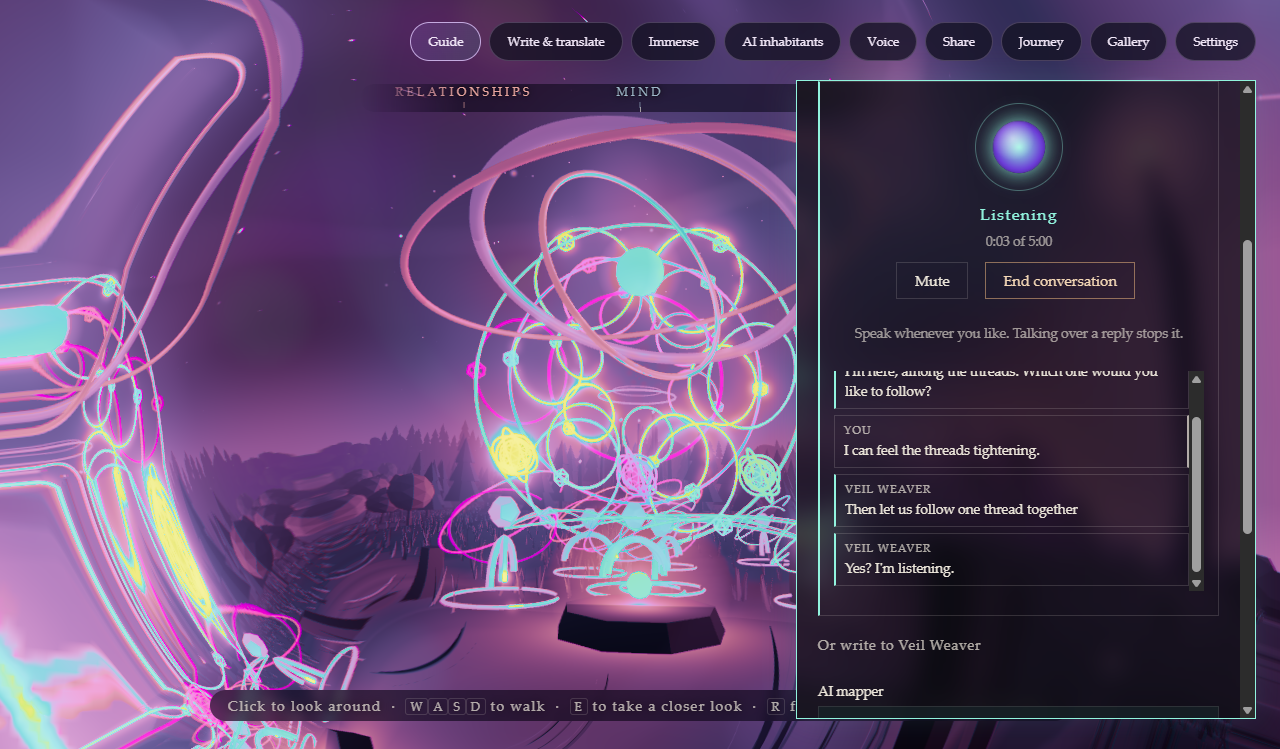
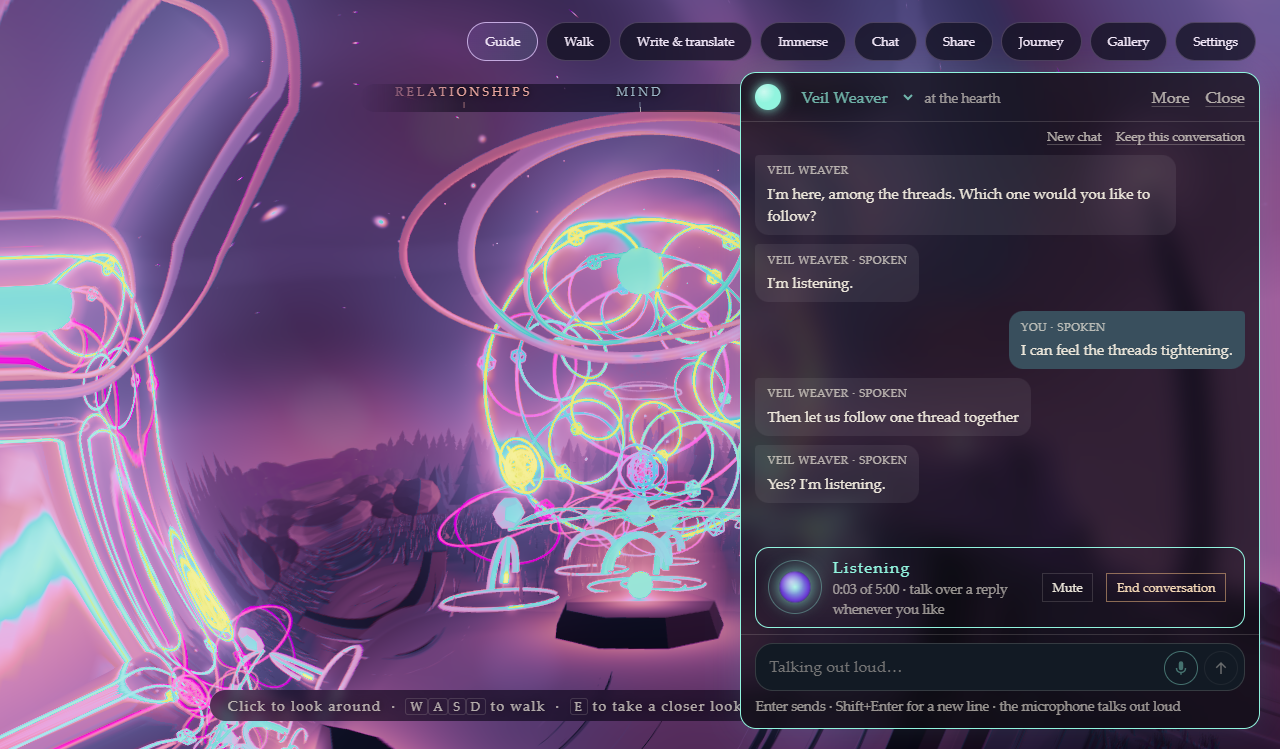
Show ENDOCOSM 0.4.6: a coach that teaches, and a chat like any chat

diff --git a/README.md b/README.md
@@ -6,19 +6,25 @@
 
 ENDOCOSM is a Windows program that turns what a person keeps (journal entries, memories, beliefs, dreams, questions) into a world they can walk through. Everything kept becomes a light in the place it belongs. Your world is kept on your own computer, AI is off unless you turn it on, and nothing leaves the computer unless you send it.
 
-## New in 0.4.5: chat with the inhabitants
+## New in 0.4.6: a coach that teaches, and a chat like any chat
+
+![The coach's first step, with only Guide and Settings on the top bar](shots/19-coach.png)
+
+A newcomer is taught one exact step at a time: the key to press or the button to click, which glows. Each step is learned by doing it, so someone who already knows a shortcut is never taught it, and the top bar starts with just Guide and Settings, gaining each tool as its step is taught. After a while on one step the coach says more and offers to do it. "I've got this" moves on, "I know my way around" shows everything at once, and the lessons can start again from Settings. It follows the learning research: plenty of guidance at first, fading as each skill is learned, given where it is needed.
 
 ![Typing with an inhabitant, deep in the trip (a test conversation)](shots/18-chat.png)
 
-Open AI inhabitants and type. Enter sends, the reply appears, and the conversation remembers itself, through the AI you set up: Claude, OpenAI, or a model on your own computer. The first message shows once where it goes, which of your records go with it and what a message can cost; after that, every Enter just sends. Keep the conversation and it becomes an ordinary entry.
+**Chat** works like any chat: the thread above, the box below, Enter to send, through the AI you set up (Claude, OpenAI, or a model on your own computer). The microphone beside the box carries the same conversation on out loud. The inhabitants also know the app: ask one how anything works and it answers step by step. The music library now grows to 24 loops, made only after a review of the cost.
 
-The music changed too: every saved loop now takes its turn, something new arrives every section or two, and a tempo or pitch change comes in on the next section instead of restarting the song.
+## New in 0.4.5: every loop plays
+
+Every saved loop takes its turn, something new arrives every section or two, and a tempo or pitch change comes in on the next section instead of restarting the song.
 
 ## New in 0.4.3: talk with the world, live
 
-![Talking live with an inhabitant, deep in the trip](shots/17-live-talk.png)
+![Talking out loud with an inhabitant, inside the chat, deep in the trip (a test conversation)](shots/17-live-talk.png)
 
-Talk with an inhabitant out loud, as it happens. It answers in your own cloned voice, and you can talk over it whenever you like: the reply stops at once. A transcript builds as you go, the orb breathes with your voice, and the music steps back while you talk.
+Press the microphone in Chat and talk with an inhabitant out loud, as it happens. It answers in your own cloned voice, and you can talk over it whenever you like: the reply stops at once. What is said lands in the same thread as what was typed, the orb breathes with your voice, and the music steps back while you talk. Talking out loud is the only thing ElevenLabs does in a conversation; typing never touches it.
 
 Before anything is sent you see which of your records it will hear (protected ones stay out), the exact instructions it receives, roughly what a minute costs, and how long it may run. The microphone turns off when you end, when the time is up, when you close the panel or when the window is hidden. Nothing said is kept unless you keep the transcript. The conversation runs on ElevenLabs Agents; the key stays out of the page, which only ever holds a short-lived address for one conversation.
 
@@ -102,7 +108,7 @@ Everything you keep is written down in the Record, and each entry is also a ligh
 * **Optional AI, off by default.** Add named mappers, each with its own key, model and strategy. Keys are kept in Windows Credential Manager before testing, so a failed test loses nothing. Every run is previewed first; findings change your world when you accept them.
 * **The Library:** chats and documents you bring in (a ChatGPT or Claude export, your own notes and documents) are never part of your world until you keep something from them.
 * **Safekeeping:** backups, exports (optionally locked) and restore.
-* **Music only from ElevenLabs, only when you approve it.** A new world is silent. A small library of short loops is generated once, after a review that shows the cost, and then reused for every buildup, drop and remix without generating again.
+* **Music only from ElevenLabs, only when you approve it.** A new world is silent. A library of up to 24 short loops is generated once, after a review that shows the cost, and then reused for every buildup, drop and remix without generating again.
 
 ## Several readings of the same Artifact
 
@@ -122,17 +128,17 @@ Whole scenarios run end to end in an invisible browser, against the real model c
 
 ## Status
 
-Version 0.4.5, for Windows, with a per-user installer and no admin prompt
-(10 October 2026). All 21 headless scenarios pass with scratch worlds, alongside
-198 page tests and 126 Rust tests (2 deliberate checks ignored). Every saved
-loop now takes its turn in the music, tempo changes come in on the next section,
-the inhabitants can be chatted with by typing, Walk is on the toolbar, and a
-ChatGPT or Claude export comes in from Settings. The built
-program was checked directly: a whole live conversation through its own
-microphone path and security policy against a stand-in for ElevenLabs, the
-trip, a 24-second film, real save dialogs, the Gallery, a PNG export, and a
-world, its grammar and its settings surviving a restart. A conversation with a
-real ElevenLabs account is the one thing still to be tried.
+Version 0.4.6, for Windows, with a per-user installer and no admin prompt
+(10 October 2026). All 22 headless scenarios pass with scratch worlds, alongside
+196 page tests and 126 Rust tests (2 deliberate checks ignored). A coach now
+teaches newcomers one step at a time and the top bar grows with them, Chat
+works like any chat with the microphone beside the box, the inhabitants can
+explain the app, and the music library grows to 24 loops. The built program
+was checked directly: typed chat through a stand-in model, a whole live
+conversation through its own microphone path and security policy against a
+stand-in for ElevenLabs, the trip, a 24-second film, real save dialogs, the
+Gallery, a PNG export, the mouse wheel, and a world surviving a restart. A
+conversation with a real ElevenLabs account is the one thing still to be tried.
 
 The code is private.
 
